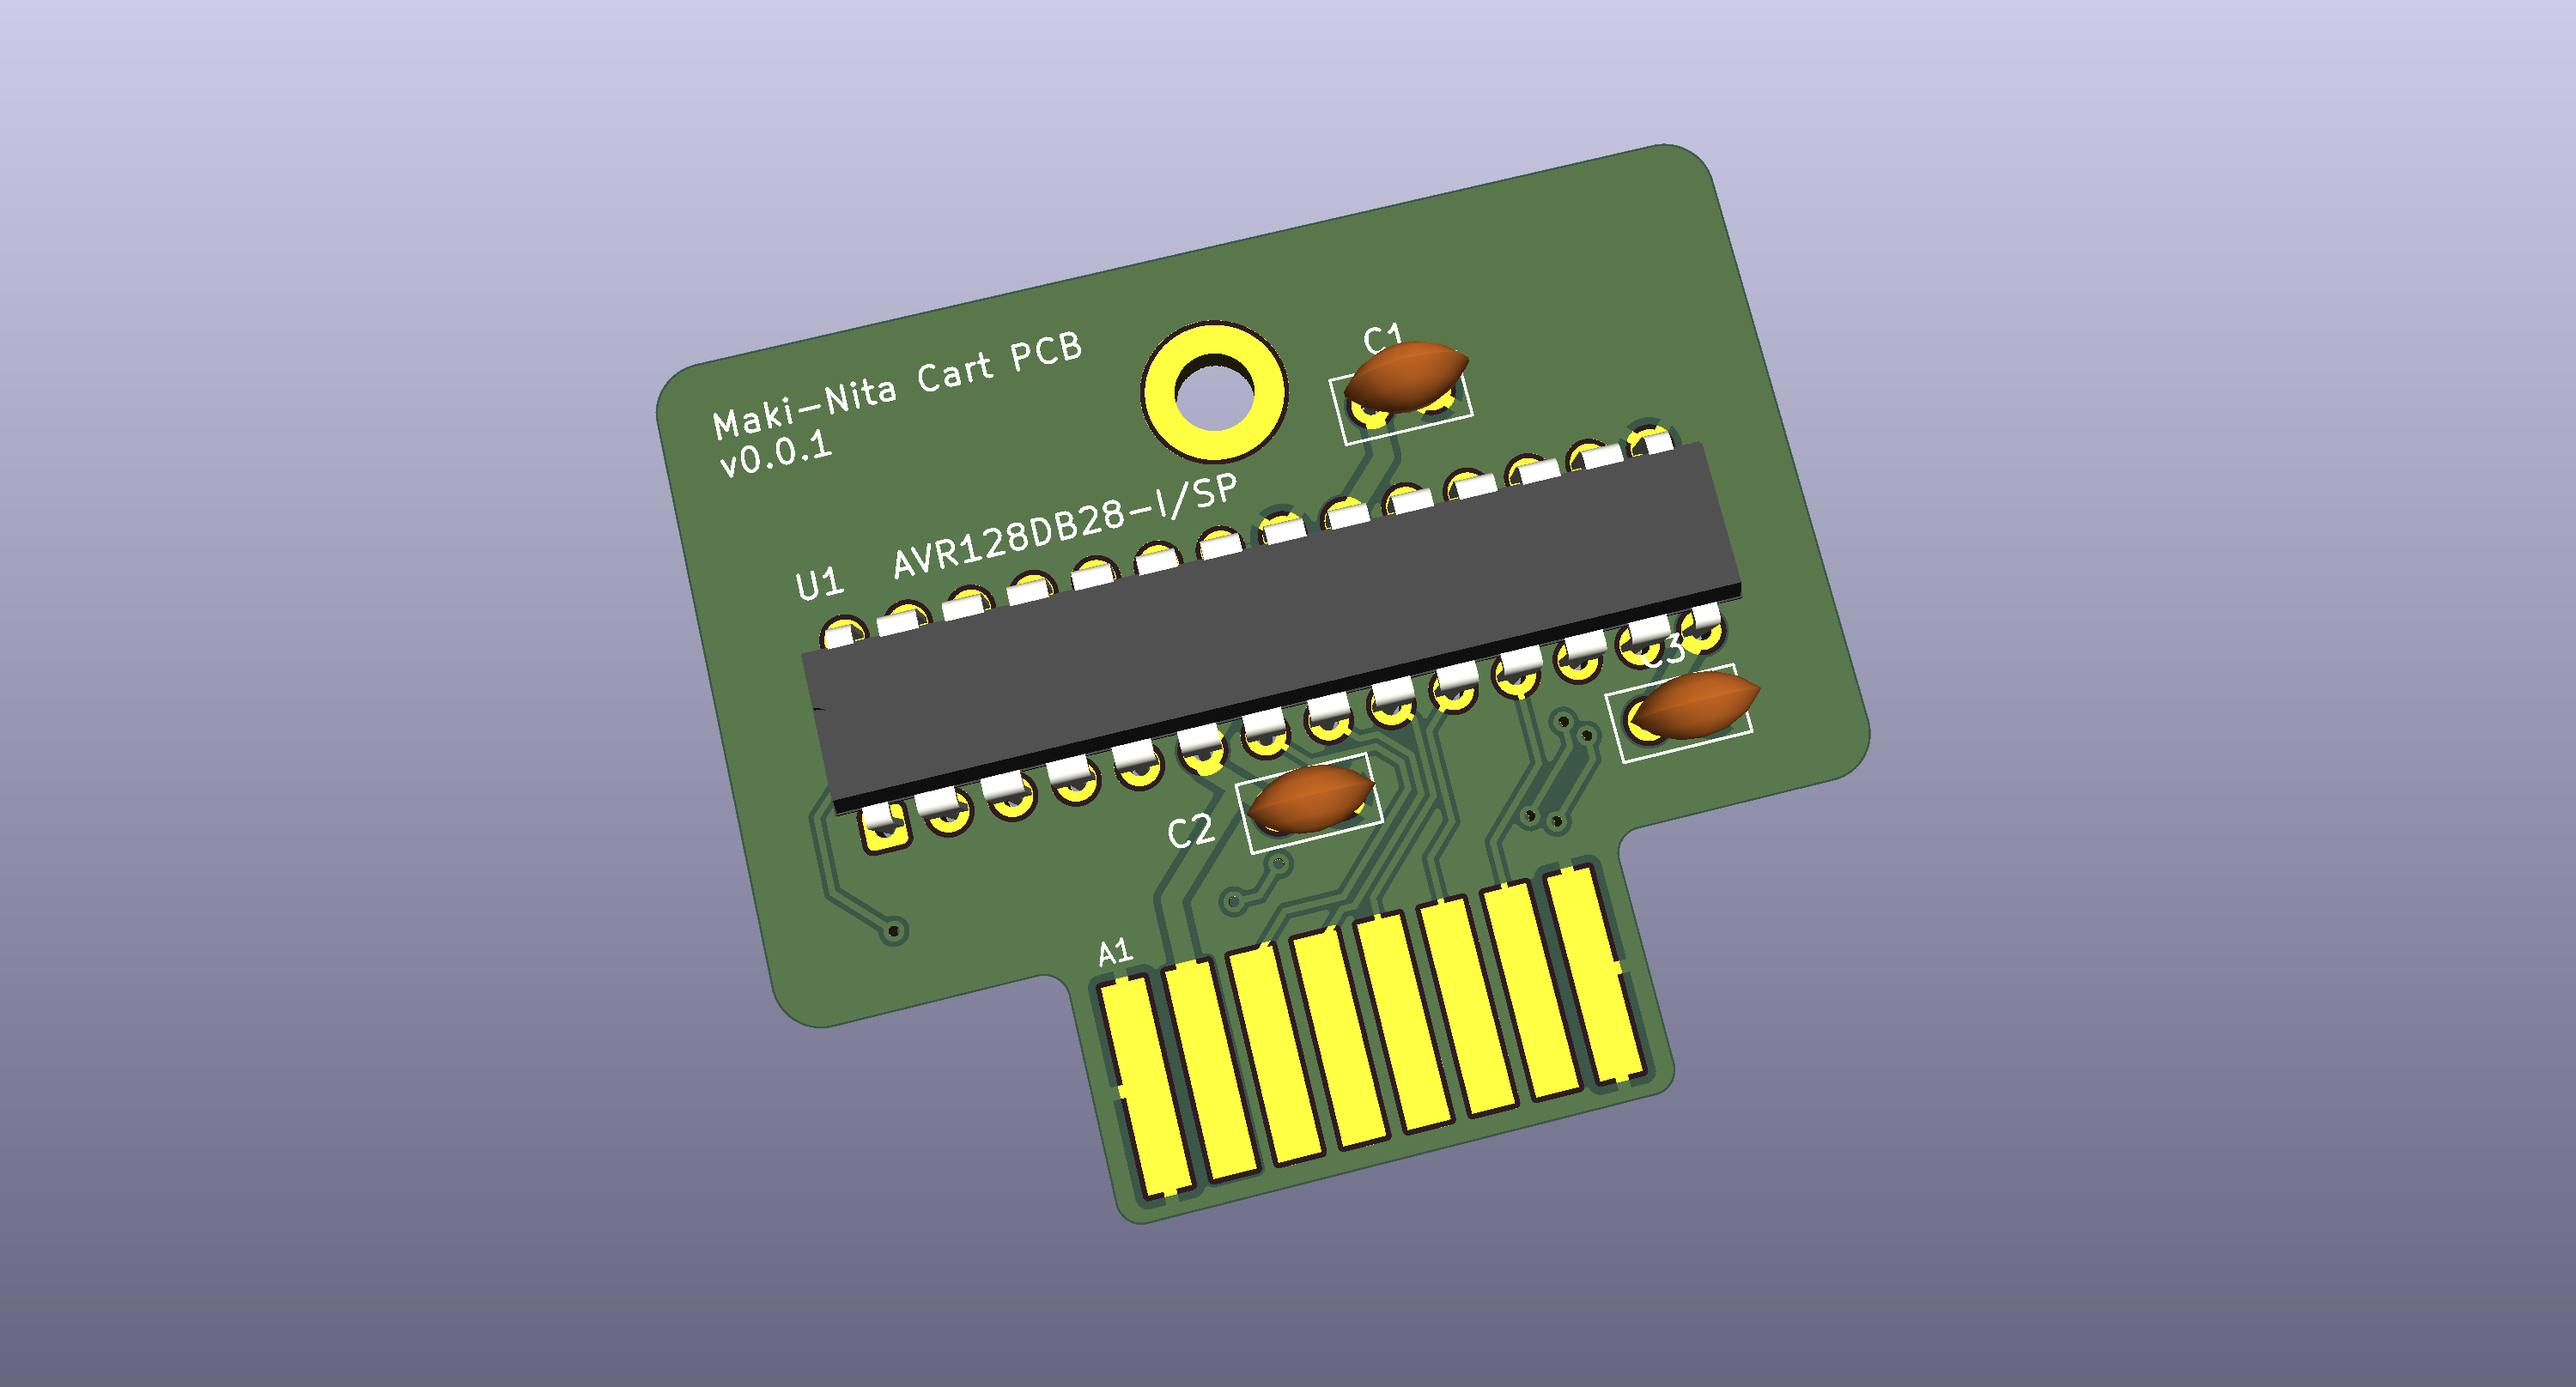
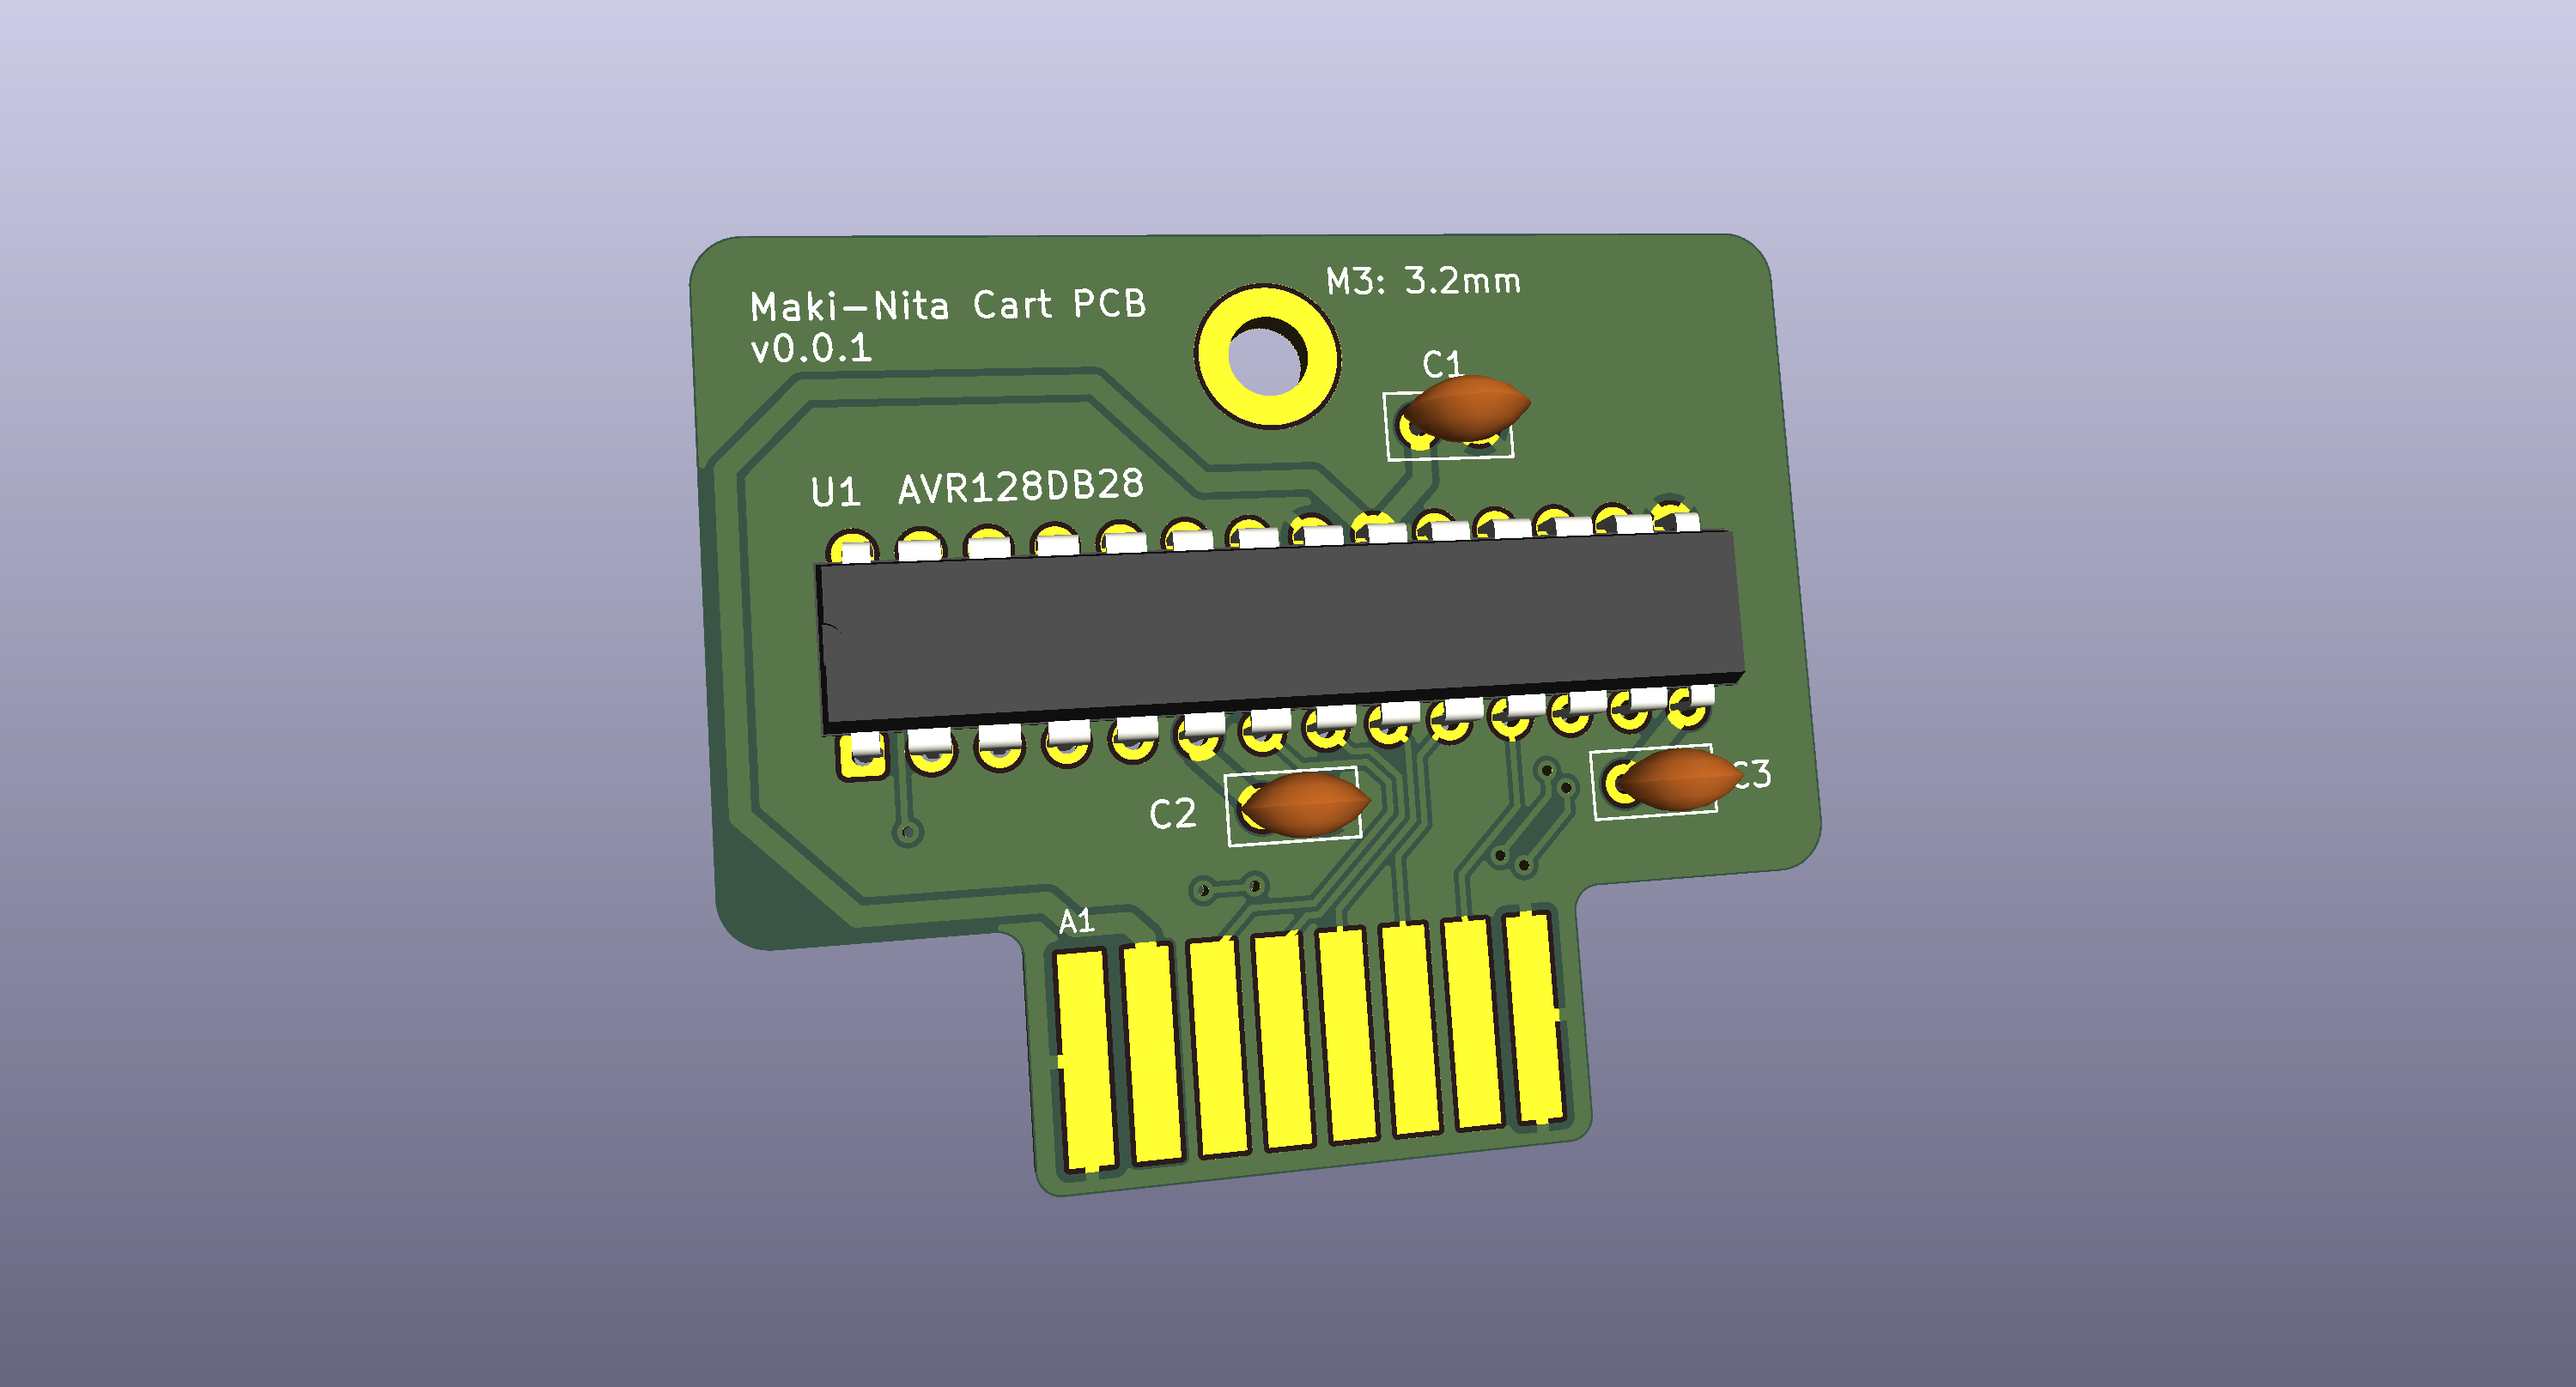
Fixed README imgs + LED colors in Sim

Changed region(s): [[0.248, 0.0928, 0.744, 0.8973]]

diff --git a/tools/sim/main.c b/tools/sim/main.c
@@ -136,7 +136,7 @@ static void present_canvas(SDL_Renderer *renderer, SDL_Texture *canvas)
 }
 
 /* The center 16 by 16 cells are the screen. The rest is the 8-pixel margin. */
-static void draw_vram(SDL_Renderer *renderer)
+static void draw_vram(SDL_Renderer *renderer, SDL_Texture *led_on, SDL_Texture *led_off)
 {
     int col;
     int row;
@@ -160,11 +160,7 @@ static void draw_vram(SDL_Renderer *renderer)
                 VRAM_DOT,
             };
 
-            if (on)
-                SDL_SetRenderDrawColor(renderer, 255, 255, 255, 255);
-            else
-                SDL_SetRenderDrawColor(renderer, 51, 51, 51, 255);
-            SDL_RenderFillRect(renderer, &dot);
+            SDL_RenderCopy(renderer, on ? led_on : led_off, NULL, &dot);
         }
     }
     SDL_SetRenderDrawColor(renderer, 102, 102, 102, 255);
@@ -318,6 +314,8 @@ int main(void)
     SDL_Renderer *renderer;
     SDL_Window *vram = NULL;
     SDL_Renderer *vram_renderer = NULL;
+    SDL_Texture *vram_led_on = NULL;
+    SDL_Texture *vram_led_off = NULL;
     SDL_Texture *led_on;
     SDL_Texture *led_off;
     SDL_Texture *stick_tex;
@@ -449,8 +447,15 @@ int main(void)
     draw(renderer, led_on, led_off, stick_tex, button_tex, &board, 0, 0, 0);
     present_canvas(renderer, canvas);
     vram = open_vram(window, &vram_renderer);
-    if (vram != NULL)
-        draw_vram(vram_renderer);
+    if (vram != NULL) {
+        vram_led_on = load_tex(vram_renderer, "led_on.png");
+        vram_led_off = load_tex(vram_renderer, "led_off.png");
+        if (vram_led_on != NULL)
+            SDL_SetTextureScaleMode(vram_led_on, SDL_ScaleModeNearest);
+        if (vram_led_off != NULL)
+            SDL_SetTextureScaleMode(vram_led_off, SDL_ScaleModeNearest);
+        draw_vram(vram_renderer, vram_led_on, vram_led_off);
+    }
     SDL_ShowWindow(window);
     if (vram != NULL)
         SDL_ShowWindow(vram);
@@ -594,7 +599,7 @@ int main(void)
         }
         present_canvas(renderer, canvas);
         if (vram != NULL && (SDL_GetWindowFlags(vram) & SDL_WINDOW_SHOWN))
-            draw_vram(vram_renderer);
+            draw_vram(vram_renderer, vram_led_on, vram_led_off);
         sound_render();
         pace(frame_start, freq);
     }
@@ -602,6 +607,10 @@ int main(void)
     sound_close();
 
     SDL_DestroyTexture(fps_tex);
+    if (vram_led_on != NULL)
+        SDL_DestroyTexture(vram_led_on);
+    if (vram_led_off != NULL)
+        SDL_DestroyTexture(vram_led_off);
     if (vram_renderer != NULL)
         SDL_DestroyRenderer(vram_renderer);
     if (vram != NULL)
